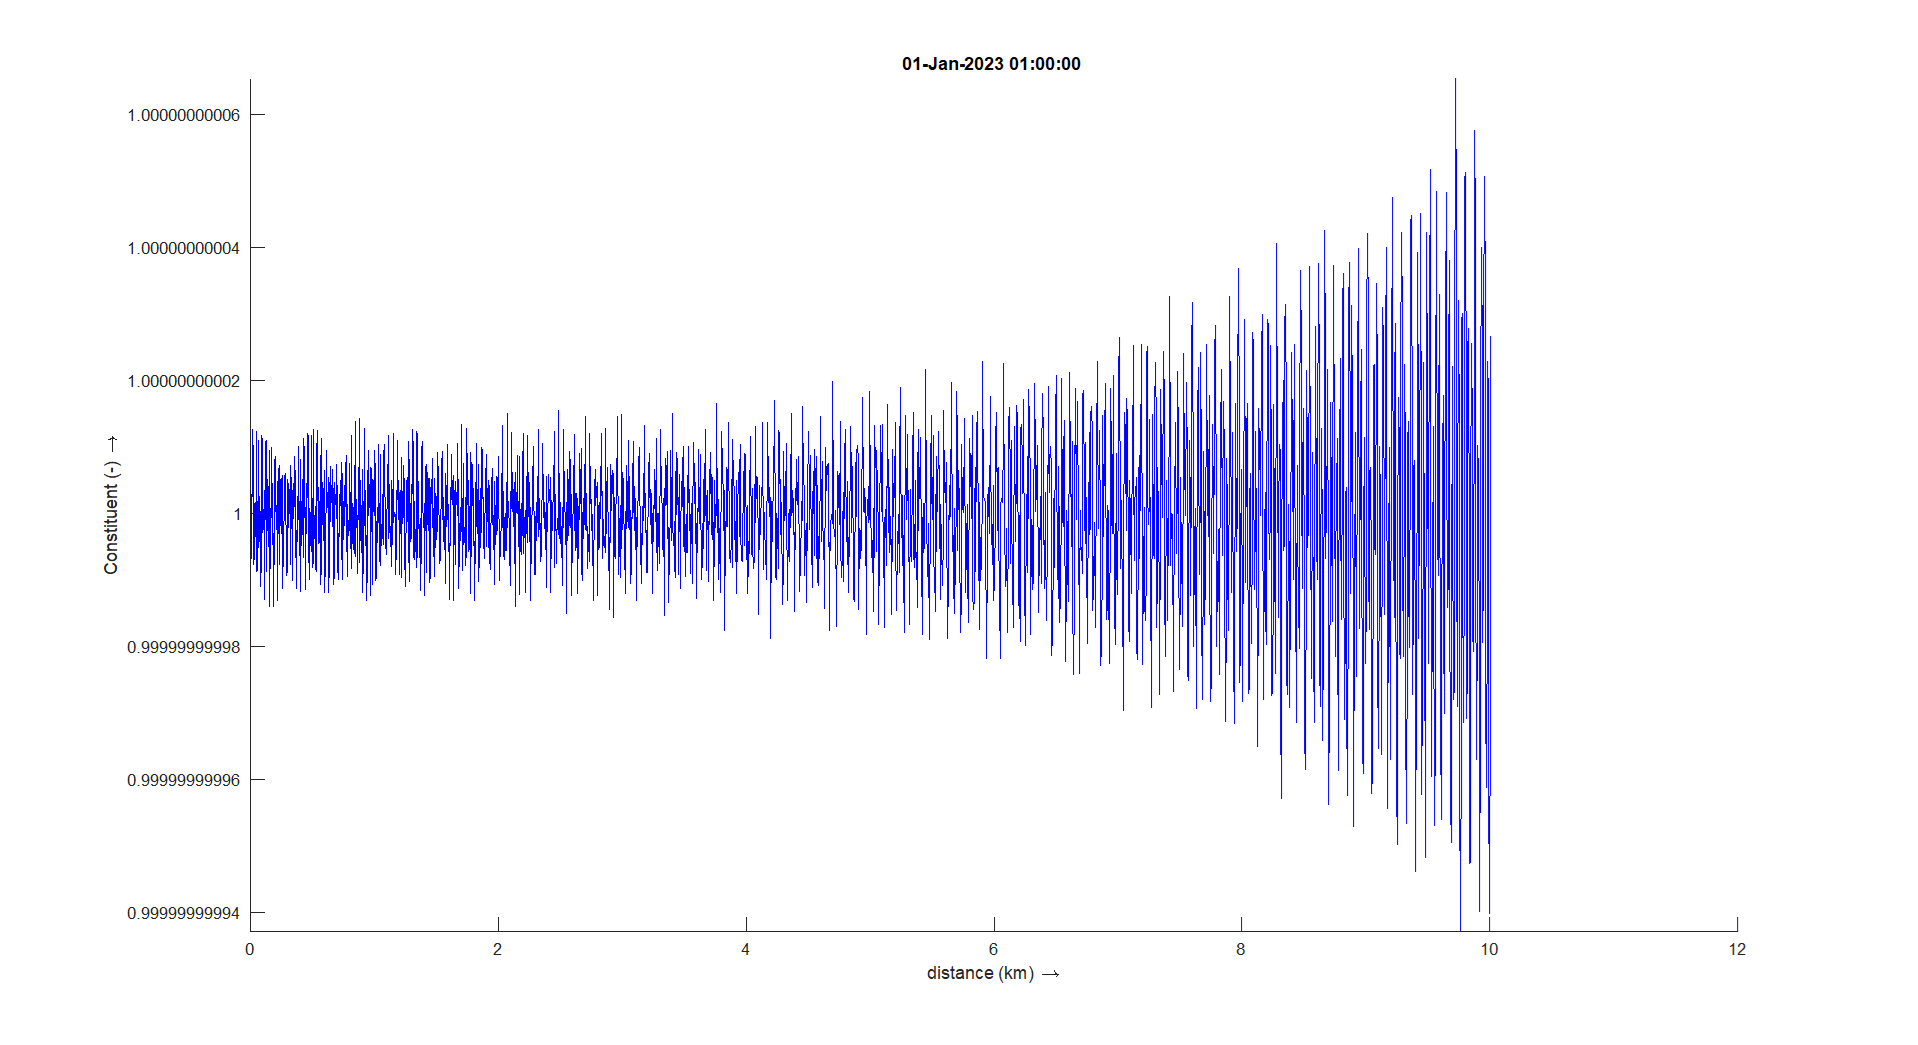
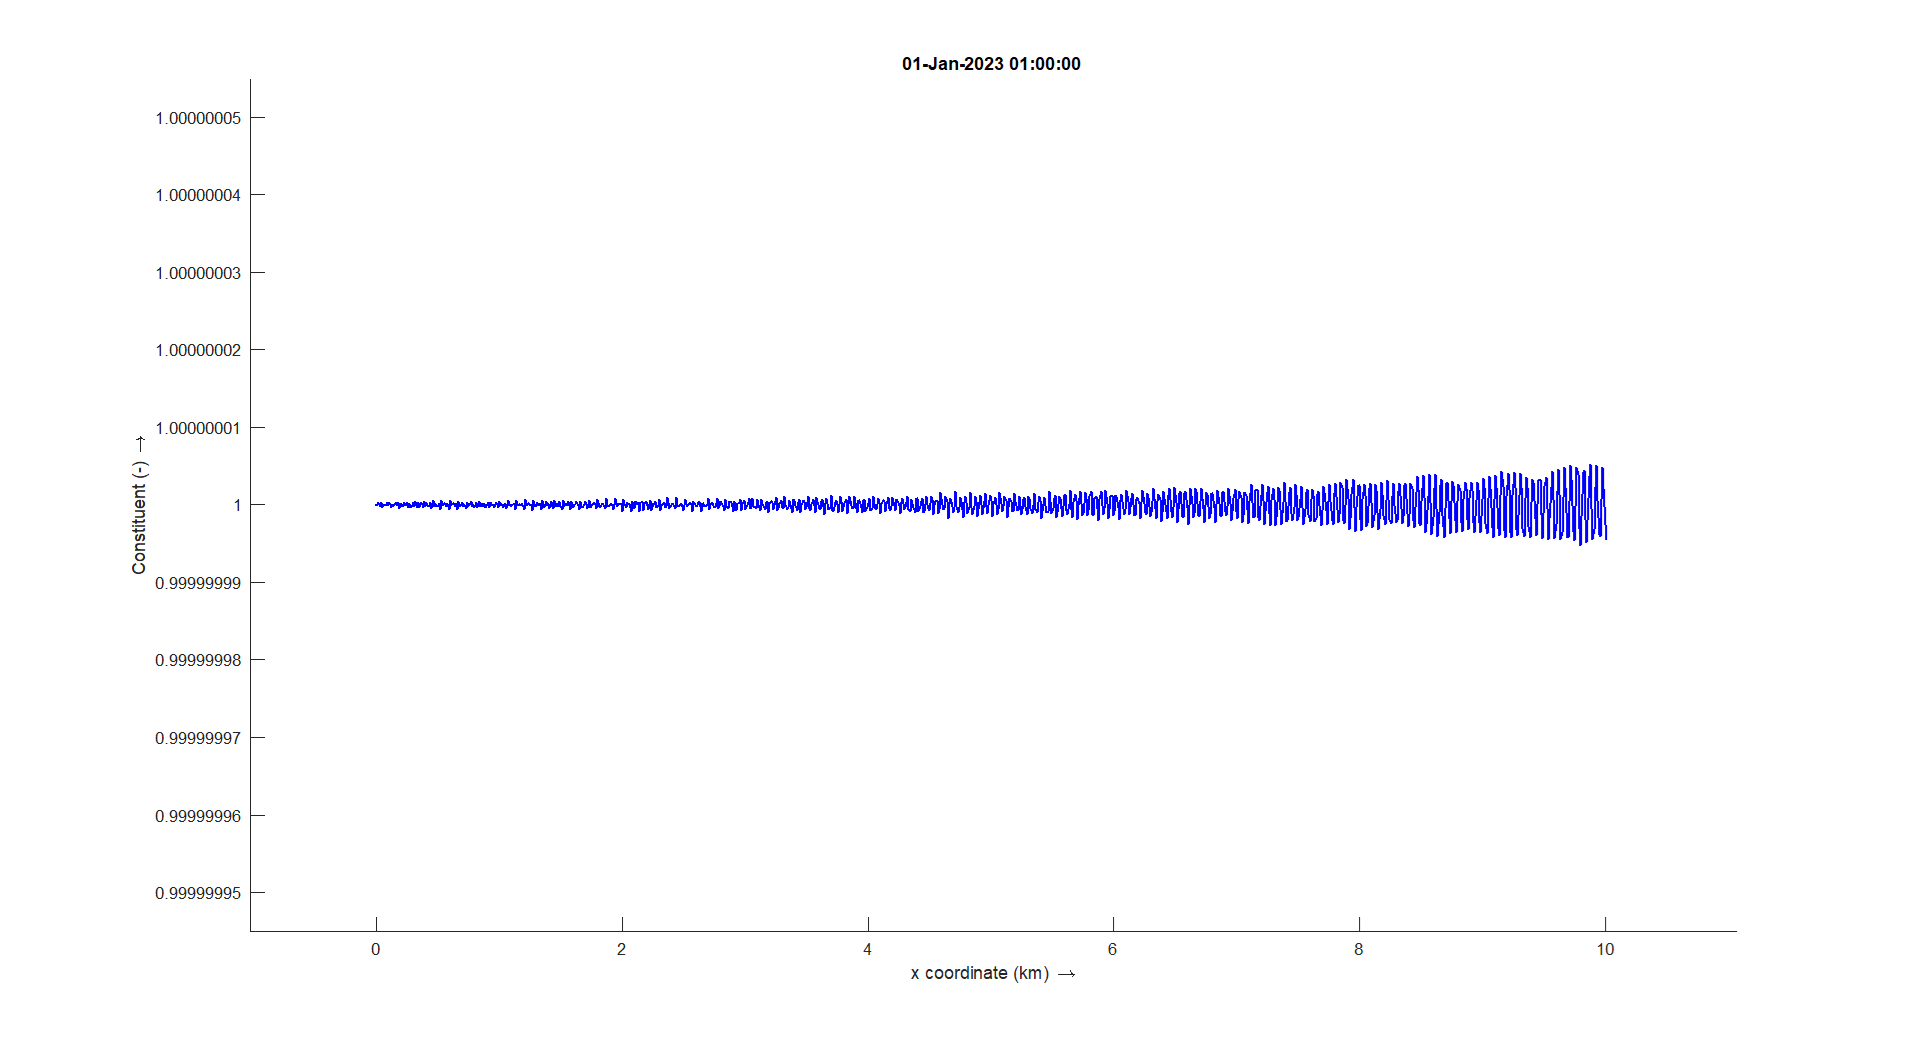
Update figures 1d-advection experiment

diff --git a/doc/delta_formulation_doc/chapters/1d_numerical_experiments.tex b/doc/delta_formulation_doc/chapters/1d_numerical_experiments.tex
@@ -185,7 +185,7 @@ where
 \paragraph*{Numerical experiment}
 The numerical experiment is performed with the following parameters:
 \begin{itemize}
-    \item Length of the domain, $L_x = \bqty{12000}{\metre}$
+    \item Length of the domain, $L_x = \bqty{10000}{\metre}$
     \item Grid size, $\Dx = \bqty{10}{\metre}$
     \item Start time, $t_{start} = \bqty{0}{\second}$
     \item End time, $t_{stop} = \bqty{3600}{\second}$
@@ -194,18 +194,18 @@ The numerical experiment is performed with the following parameters:
     \item Prescribed constant velocity, $u_{\mathit given}(x,t) = \bqty{10}{\metre\per\second}$
     \item Prescribed initial value of the constituent, $c(x,0)= \bqty{0}{-}$.
     \item Prescribed constituent on boundary at $x=0$ is given by \autoref{eq:1d_adv_boundary_condition}.
-    \item No boundary is prescribed at $x=\bqty{12000}{\metre}$.
+    \item No boundary is prescribed at $x=\bqty{10000}{\metre}$.
 \end{itemize}
 %--------------------------------------------------------------------------------
 \paragraph*{Results of the numerical experiments}
 A map picture at $t=\bqty{3600}{\second}$ and time-series are given for this experiment.
-As seen from the map figure there are very small spurious waves traveling from right to left.
-These spurious waves are fully generated by the numerical scheme at the right boundary,
-because the continuous advection equation does \textbf{not} allow information traveling from right to left.
+As seen from the pictures the values of the constituent at the end of the simulation are very close to the given boundary condition.
+Also spurious waves are seen from the map figure these very small spurious waves are traveling from right to left.
+These spurious waves are fully generated by the numerical scheme at the right/outflow boundary, because the continuous advection equation does \textbf{not} allow information traveling from right to left.
 \begin{figure}[H]
     \centering
     \includegraphics[width=0.9\textwidth]{figures/constant_3600s.png}
-    \caption{Spurious waves at $t=\bqty{3600}{\second}$. Range from $ 1 \pm \num{8e-09}$.}
+    \caption{Constituent at $t=\bqty{3600}{\second}$. Range from $ 1 \pm \num{5e-08}$.}
 \end{figure}
 Results for several observation stations along the channel are shown in \autoref{fig:result_1d_adv_constant_bc}
 \begin{figure}[H]